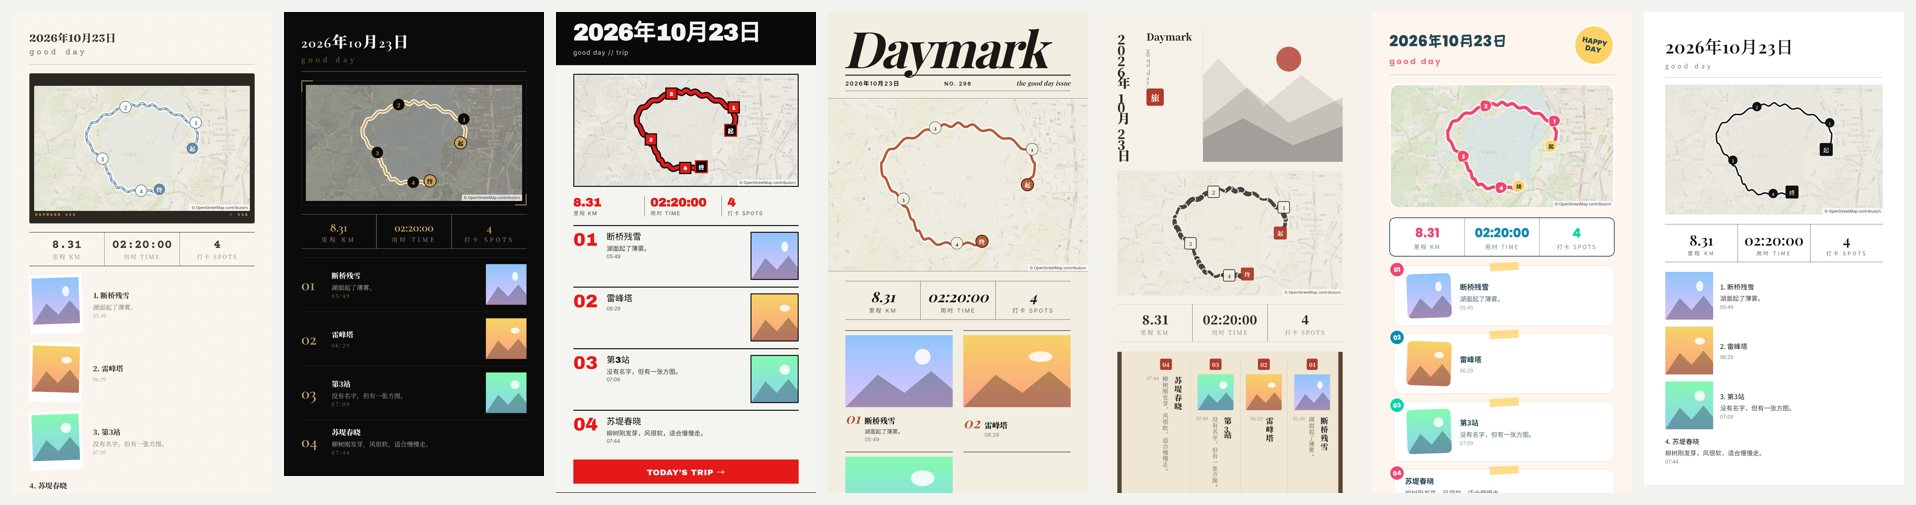
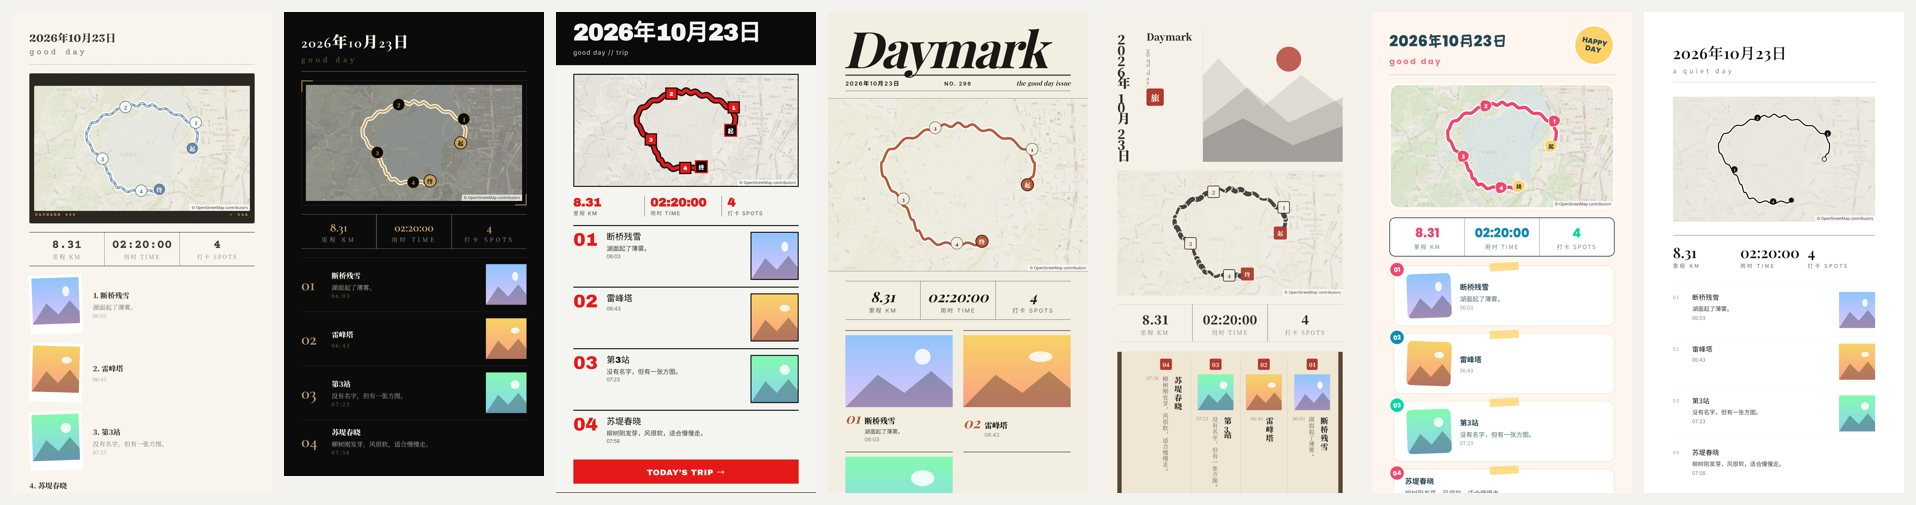
feat(themes): upgrade minimal theme; phase 2 complete
New reusable `toolbar: text` variant (label-only buttons, hairline underline
for the active state, red dot while recording). Minimal gets an airy topbar
with a text-link theme toggle, hairline hud, roomy sheets with underline
inputs and an outlined danger button. Map markers simplified: small numbered
dots for places, hollow ring for start and solid dot for end; start/end
markers now carry .is-start / .is-end on the map, export and thumbnails.
Export uses 120px margins, hairline rows and small grey indices. Muted
darkened to #767676.

README, plan and preview images updated.

Changed region(s): [[0.8622, 0.0891, 0.9854, 0.9208], [0.9546, 0.5644, 0.9854, 0.6535]]

diff --git a/index.html b/index.html
@@ -129,6 +129,8 @@ button{font-family:inherit;border:none;background:none;color:inherit;cursor:poin
 .tt[data-topbar="masthead"] .tt-top{height:26px;font-size:15px;line-height:22px;font-style:italic;border-bottom:3px double var(--on-topbar)}
 .tt[data-topbar="tag"] .tt-top{left:6px;top:6px;right:auto;width:16px;height:52px;padding:4px 0;writing-mode:vertical-rl;line-height:14px;font-size:8px;
   border:1px solid var(--line);border-radius:2px;text-align:center}
+.tt[data-toolbar="text"] .tt-bar i{width:14px;height:2px;border-radius:0;background:var(--on-topbar);opacity:.7}
+.tt[data-toolbar="text"] .tt-bar i:first-child{background:var(--on-topbar);opacity:1}
 .tt[data-topbar="float"] .tt-top{left:5px;right:5px;top:5px;border:1px solid var(--line);border-radius:min(var(--radius),6px)}
 .tt[data-toolbar="pill"] .tt-bar{left:12px;right:12px;bottom:5px;border:1px solid var(--line);border-radius:var(--pill)}
 .tt[data-toolbar="blocks"] .tt-bar{justify-content:space-evenly}
@@ -228,7 +230,13 @@ body.capturing .leaflet-control-container{display:none}
  * status:  none | strip（顶栏下常驻里程/用时/地点数）
  * topbar 另有 masthead（刊头：大标题独占一行，日期与按钮在细线下）| tag（竖排题签，悬浮在地图左上角）
  * list:    none | strip（地图下方的地点目录）
+ * toolbar 另有 text（纯文字按钮，激活态为细下划线；图标仍在 DOM 中但隐藏）
  */
+[data-toolbar="text"] #toolbar{padding:12px 10px calc(14px + env(safe-area-inset-bottom))}
+[data-toolbar="text"] .tool-btn{padding:10px 2px;border-radius:0;font-size:13px;letter-spacing:.14em}
+[data-toolbar="text"] .tool-btn .ico{display:none}
+[data-toolbar="text"] .tool-btn.active{background:none;color:inherit;text-decoration:underline;text-decoration-thickness:1px;text-underline-offset:7px}
+[data-toolbar="text"] #btnRecord.active::before{content:"";display:inline-block;width:6px;height:6px;margin-bottom:3px;border-radius:50%;background:#E5484D;animation:blink 1.2s infinite}
 [data-topbar="masthead"] #topbar{display:grid;grid-template-columns:1fr auto;grid-template-areas:"title title" "date toggle";row-gap:6px;padding-bottom:8px}
 [data-topbar="masthead"] #brand{display:contents}
 [data-topbar="masthead"] #brandTitle{grid-area:title;font-size:40px;line-height:1;padding-bottom:6px;border-bottom:var(--mast-rule,1px solid currentColor)}
@@ -590,20 +598,48 @@ body[data-theme="playful"] #pinImgPreview{border-radius:20px;border:6px solid #f
 .card-t6 .ec-pin:nth-child(3n) .ec-no{background:#06D6A0}
 .card-t6 .ec-idx{display:none}
 
-/* ---- 主题：极简主义 minimal ---- */
+/* ---- 主题：极简主义 minimal ----
+ * 高留白顶栏与纯文字工具栏，细线弹窗与下划线输入框；地图标记简化为点和环。 */
+body[data-theme="minimal"] #topbar{padding:calc(20px + env(safe-area-inset-top)) 22px 16px}
+body[data-theme="minimal"] #brandTitle{font-size:22px;font-weight:600}
+body[data-theme="minimal"] #brandDate{margin-top:6px;letter-spacing:.2em}
+body[data-theme="minimal"] #themeToggle{padding:6px 0;border:none;background:none;font-size:12px;letter-spacing:.14em;
+  text-decoration:underline;text-decoration-thickness:1px;text-underline-offset:5px}
+body[data-theme="minimal"] .tg-emoji{display:none}
+body[data-theme="minimal"] .mkb-se.is-start{background:#FFFFFF}
+body[data-theme="minimal"] .hud{box-shadow:none;border-color:#111;padding:6px 6px 6px 16px}
+body[data-theme="minimal"] .hud .rec-dot{width:6px;height:6px}
+body[data-theme="minimal"] .hud button{padding:7px 12px;font-size:12px;letter-spacing:.1em}
+body[data-theme="minimal"] .modal{padding:30px 26px calc(30px + env(safe-area-inset-bottom));border-top:1px solid #111}
+body[data-theme="minimal"] .modal h3{font-weight:600;font-size:20px;margin-bottom:26px;letter-spacing:.04em}
+body[data-theme="minimal"] .modal .row{margin-bottom:22px}
+body[data-theme="minimal"] .modal label{letter-spacing:.16em}
+body[data-theme="minimal"] .modal input[type=text],body[data-theme="minimal"] .modal textarea{border:none;border-bottom:1px solid #111;padding:8px 0;background:transparent}
+body[data-theme="minimal"] .modal input:focus,body[data-theme="minimal"] .modal textarea:focus{outline:none;border-bottom-width:2px}
+body[data-theme="minimal"] .photo-btn{border:1px solid #111;padding:9px 16px;font-size:13px}
+body[data-theme="minimal"] .btn{font-weight:500;letter-spacing:.12em;font-size:14px}
+body[data-theme="minimal"] .btn.ghost{border-color:#111}
+body[data-theme="minimal"] .btn.danger{background:#fff;color:#C4373C;border:1px solid #C4373C}
 .card-t7{--card-bg:#FFFFFF;--card-fg:#111111;font-family:"Noto Sans SC",system-ui,sans-serif}
-.card-t7 .ec-head{padding:88px 88px 30px}
-.card-t7 .ec-date{font-family:"Playfair Display","Noto Serif SC",serif;font-weight:600;font-size:72px}
+.card-t7 .ec-head{padding:120px 120px 40px}
+.card-t7 .ec-date{font-family:"Playfair Display","Noto Serif SC",serif;font-weight:600;font-size:64px}
 .card-t7 .ec-deco{font-size:26px;letter-spacing:.42em;opacity:.55}
 .card-t7 .ec-rule{height:1px;opacity:.4}
-.card-t7 .ec-map{margin:0 88px;border-radius:0;height:540px;filter:grayscale(.4)}
-.card-t7 .ec-stats{margin:40px 88px 0;border-top:1px solid #111;border-bottom:1px solid #111}
+.card-t7 .ec-map{margin:20px 120px 0;border-radius:0;height:520px}
+.card-t7 .ec-stats{margin:56px 120px 0;border-top:1px solid #111;border-bottom:none}
+.card-t7 .ec-stat{text-align:left;padding:28px 0 0}
+.card-t7 .ec-stat+.ec-stat{border-left:none}
 .card-t7 .ec-stat b{font-family:"Playfair Display","Noto Serif SC",serif;font-weight:600;font-size:60px}
 .card-t7 .ec-stat span{font-size:22px;letter-spacing:.3em}
-.card-t7 .ec-pins{margin:40px 88px 0}
-.card-t7 .ec-pin img{border-radius:0;border:1px solid #1112}
+.card-t7 .ec-pins{margin:64px 120px 0}
+.card-t7 .ec-pin{align-items:flex-start;gap:32px;padding:30px 0 0;margin-bottom:34px;border-top:1px solid #1111}
+.card-t7 .ec-no{display:block;order:0;flex:0 0 48px;padding-top:6px;font-size:20px;letter-spacing:.16em;opacity:.45}
+.card-t7 .ec-idx{display:none}
+.card-t7 .ec-pin .t{order:1}
+.card-t7 .ec-pin img{order:2;width:150px;height:150px;border-radius:0}
 .card-t7 .ec-pin .t b{font-weight:400;font-size:28px}
-.card-t7 .ec-foot{font-size:22px;letter-spacing:.4em}
+.card-t7 .ec-pin .t p{font-size:24px;line-height:1.7}
+.card-t7 .ec-foot{font-size:22px;letter-spacing:.4em;padding-bottom:110px}
 
 /* ============ 导出预览弹窗 ============ */
 .routeonly-row{display:flex;align-items:center;gap:10px;font-size:14px;color:var(--fg);margin:2px 0 12px;cursor:pointer}
@@ -836,7 +872,7 @@ const photoStore={
  * 主题 id 会写进用户存储，发布后不要改名；确需改名时在 THEME_ALIASES 里登记旧 id。
  */
 const OSM_TILE="https://tile.openstreetmap.org/{z}/{x}/{y}.png";
-const LAYOUTS={topbar:["bar","float","split","masthead","tag"],toolbar:["dock","pill","blocks","bubbles"],modal:["sheet","dialog"],status:["none","strip"],list:["none","strip"]};
+const LAYOUTS={topbar:["bar","float","split","masthead","tag"],toolbar:["dock","pill","blocks","bubbles","text"],modal:["sheet","dialog"],status:["none","strip"],list:["none","strip"]};
 const THEME_ALIASES={};
 const THEME_DEFAULTS={
   name:"",category:"其他",desc:"",
@@ -924,15 +960,17 @@ const THEMES=[
       pin:{radius:"40% 60% 70% 30%/40% 50% 60% 50%",bg:"#EF476F",fg:"#FFFFFF",border:"2.5px solid #FFFFFF",shadow:"0 3px 10px rgba(239,71,111,.4)"},
       se:{radius:"40% 60% 70% 30%/40% 50% 60% 50%",bg:"#FFD166",fg:"#264653",border:"2.5px solid #FFFFFF"}}},
   card:{cls:"card-t6",tape:true},motion:{dur:".35s",ease:"cubic-bezier(.34,1.56,.64,1)"}},
- {id:"minimal",name:"极简主义",category:"设计",desc:"大留白与细线",
-  palette:{bg:"#FFFFFF",fg:"#111111",muted:"#8A8A8A",accent:"#111111",panel:"#FFFFFF",line:"rgba(0,0,0,.14)"},
-  typography:{display:'"Playfair Display","Noto Serif SC",serif',body:'"Noto Sans SC",system-ui,sans-serif',num:'"Playfair Display",serif'},
-  shape:{radius:"0px",control:"0px",pill:"0px"},
-  map:{tileOpacity:.22,tileFilter:"grayscale(1) brightness(1.2)",
-    route:{color:"#111111",casing:"#FFFFFF",weight:4,casingW:9},
-    marker:{pin:{size:"26px",fontSize:"12px",weight:"400",bg:"#111111",fg:"#FFFFFF",border:"none"},
-      se:{radius:"4px",weight:"400",bg:"#111111",fg:"#FFFFFF"}}},
-  card:{cls:"card-t7"},motion:{dur:".2s"}}
+ {id:"minimal",name:"极简主义",category:"设计",desc:"高留白、细线与纯文字按钮",
+  palette:{bg:"#FFFFFF",fg:"#111111",muted:"#767676",accent:"#111111",panel:"#FFFFFF",line:"rgba(0,0,0,.12)"},
+  typography:{display:'"Playfair Display","Noto Serif SC",serif',body:'"Noto Sans SC",system-ui,sans-serif',num:'"Playfair Display",serif',titleSpacing:".04em"},
+  shape:{radius:"0px",control:"0px",pill:"0px",topbarBorder:"1px solid rgba(0,0,0,.12)"},
+  layout:{toolbar:"text"},
+  map:{tileOpacity:.18,tileFilter:"grayscale(1) brightness(1.22)",
+    route:{color:"#111111",casing:"#FFFFFF",weight:3,casingW:8},
+    /* 简化标记：地点为小黑点编号；起点空心环、终点实心点，不显示文字 */
+    marker:{pin:{size:"18px",fontSize:"10px",weight:"500",bg:"#111111",fg:"#FFFFFF",border:"none"},
+      se:{size:"14px",fontSize:"0px",weight:"400",bg:"#111111",fg:"#FFFFFF",border:"2px solid #111111"}}},
+  card:{cls:"card-t7",deco:"a quiet day"},motion:{dur:".2s"}}
 ].map(defineTheme);
 const themeById=id=>THEMES.find(t=>t.id===(THEME_ALIASES[id]||id))||THEMES[0];
 /* 主题 → CSS 变量。界面（:root）与画廊缩略图（.tt 元素）共用 */
@@ -1090,9 +1128,9 @@ function buildGallery(){
     tt.className="tt";tt.dataset.topbar=t.layout.topbar;tt.dataset.toolbar=t.layout.toolbar;tt.dataset.status=t.layout.status;tt.dataset.list=t.layout.list;
     setVars(tt,themeVars(t));
     tt.innerHTML=thumbRouteSVG(t)
-      +'<span class="tt-mk" style="left:10px;top:92px"><div class="mkb-se">起</div></span>'
+      +'<span class="tt-mk" style="left:10px;top:92px"><div class="mkb-se is-start">起</div></span>'
       +'<span class="tt-mk" style="left:56px;top:66px"><div class="mkb-pin">1</div></span>'
-      +'<span class="tt-mk" style="left:94px;top:46px"><div class="mkb-se">终</div></span>'
+      +'<span class="tt-mk" style="left:94px;top:46px"><div class="mkb-se is-end">终</div></span>'
       +'<div class="tt-top">Daymark</div><div class="tt-strip"></div><div class="tt-list"></div><div class="tt-bar"><i></i><i></i><i></i><i></i></div>';
     b.appendChild(tt);
     b.insertAdjacentHTML("beforeend",'<span class="tg-badge">当前</span><span class="tg-name">'+esc(t.name)+'</span><span class="tg-meta">'+esc(t.category+" · "+t.desc)+'</span>');
@@ -1148,10 +1186,10 @@ function drawRoute(){
     }
   }
   /* 起终点标记 */
-  const mk=(p,txt)=>{
-    L.marker([p.lat,p.lng],{icon:L.divIcon({className:"mk-se",html:'<div class="mkb-se">'+txt+"</div>",iconSize:[36,36],iconAnchor:[18,18]}),interactive:false,keyboard:false}).addTo(seLayer);
+  const mk=(p,txt,kind)=>{
+    L.marker([p.lat,p.lng],{icon:L.divIcon({className:"mk-se",html:'<div class="mkb-se '+kind+'">'+txt+"</div>",iconSize:[36,36],iconAnchor:[18,18]}),interactive:false,keyboard:false}).addTo(seLayer);
   };
-  mk(pts[0],"起");mk(pts[pts.length-1],"终");
+  mk(pts[0],"起","is-start");mk(pts[pts.length-1],"终","is-end");
   updateRecHud();
 }
 function pushRoutePoint(lat,lng,t){
@@ -1481,7 +1519,7 @@ async function renderMapImage(th){
   g.fillStyle="rgba(255,255,255,.72)";g.fillRect(W-tw-16,H-26,tw+16,26);
   g.fillStyle="#333";g.textBaseline="middle";g.fillText(credit,W-tw-8,H-13);
   const marks=[],mark=(p,cls,txt)=>{const q=P(p);marks.push({x:q[0]/W*100,y:q[1]/H*100,cls,txt});};
-  if(state.route.length>=2){mark(state.route[0],"mkb-se","起");mark(state.route[state.route.length-1],"mkb-se","终");}
+  if(state.route.length>=2){mark(state.route[0],"mkb-se is-start","起");mark(state.route[state.route.length-1],"mkb-se is-end","终");}
   sortedPins().forEach((p,i)=>mark(p,"mkb-pin",String(i+1)));
   return {src:cv.toDataURL("image/png"),marks};   // 瓦片跨域被拒时这里会抛错，由调用方兜底
 }

diff --git a/DEVELOPMENT_PLAN.md b/DEVELOPMENT_PLAN.md
@@ -71,6 +71,7 @@
 - [x] 第二阶段第一批：奶油胶片、瑞士粗野主义（见下）。
 - [x] 第二阶段第二批：黑金轻奢、插画趣味风（见下）。
 - [x] 第二阶段第三批：星期日杂志、新中式水墨（见下）。
+- [x] 第二阶段第四批：极简主义（见下）。**第二阶段完成。**
 - [x] README 重写：功能、使用须知、主题目录与预览图、验收模式与截图脚本、新增主题指南、第三方许可清单（第四阶段的 README 条目提前完成，后续随主题更新）。
 
 ### 第二阶段进度
@@ -86,7 +87,9 @@
 | 星期日杂志 | `masthead`（新增） + `dock` + `sheet` + `list: strip`（新增） | 刊头式顶栏：斜体 40px 大标题与 THE DAY ISSUE 小字，细线下为日期与文字链接式按钮；横排图标 + 标签的工具栏；斜体编号的编辑式地点目录。导出为杂志封面：210px 斜体刊头、日期 / 期号（一年中的第几天）/ 装饰语一行、满版地图、双栏图文目录。 |
 | 新中式水墨 | `tag`（新增） + `dock` + `sheet` + `list: strip` | 竖排题签“日迹”悬于地图左上，朱印“换风格”；工具栏图标为朱印框；地点目录做成手卷：两端木轴、竖排、由右向左。导出地点同样按手卷排列（竖排标题与记录、朱印编号）。 |
 
-验收：第一批两款 × 12 个场景 × phone / narrow / wide 截图，7 款主题导出 PNG 全部走新地图渲染；全量回归 252 张截图无报错。第二批、第三批同样 × 12 个场景 × 三种视口。第三批修复：html2canvas 绘制竖排文字时标点位置错误、时间被拆开，新增 `card.vertical` 自动换用竖排标点，时间单独横排；主题画廊增加“完成”按钮（竖排题签被画廊遮住时也能关闭）。修复：html2canvas 会把圆角卡片的 box-shadow 画成灰色实块，插画导出卡改用浅色边框。新增通用能力：`topbar: split | masthead | tag`、`toolbar: bubbles`、`status: strip`、`list: strip` 变体、导出卡片 `.ec-map-in` 内层（主题可自由给地图加外框）、`card.mapLabel`、地点编号元素 `.ec-no`、验收场景 `pinphoto`。
+| 极简主义 | `bar` + `text`（新增） + `sheet` | 高留白顶栏、文字链接式“换风格”；纯文字工具栏，激活态为细下划线，记录中带红点；细线录制条；弹窗加大留白、下划线输入框、描边危险按钮。地图标记简化：地点为 18px 编号小黑点，起点空心环、终点实心点（起终点标记新增 `.is-start` / `.is-end`）。导出：120px 边距、细线分行、灰色小编号。muted 改为 `#767676`。 |
+
+验收：第一批两款 × 12 个场景 × phone / narrow / wide 截图，7 款主题导出 PNG 全部走新地图渲染；全量回归 252 张截图无报错。第二批、第三批、第四批同样 × 12 个场景 × 三种视口。第三批修复：html2canvas 绘制竖排文字时标点位置错误、时间被拆开，新增 `card.vertical` 自动换用竖排标点，时间单独横排；主题画廊增加“完成”按钮（竖排题签被画廊遮住时也能关闭）。修复：html2canvas 会把圆角卡片的 box-shadow 画成灰色实块，插画导出卡改用浅色边框。新增通用能力：`topbar: split | masthead | tag`、`toolbar: bubbles | text`、`status: strip`、`list: strip` 变体、导出卡片 `.ec-map-in` 内层（主题可自由给地图加外框）、`card.mapLabel`、地点编号元素 `.ec-no`、验收场景 `pinphoto`。
 
 ### 已知问题（待处理）
 
@@ -95,4 +98,4 @@
 
 ### 下一步
 
-1. 第二阶段收尾：极简主义（高留白、细线控件、简化地图标记）。之后进入第三阶段新增主题，每批最多两款。
+1. 第三阶段第一批：岛屿手账（便签与物件式工具栏、旅行日记导出）与旷野探索（地图主导、探索面板与任务日志）。两款可分别复用 `float` + `pill` 与 `status: strip` + `list: strip`，按需新增变体。

diff --git a/README.md b/README.md
@@ -33,7 +33,7 @@
 | 星期日杂志海报 | `magazine` | 设计 | masthead / dock / sheet / – / strip | 刊头式斜体大标题、编辑式地点目录、导出为杂志封面（满版地图 + 期号 + 双栏目录） |
 | 新中式水墨 | `ink` | 东方 | tag / dock / sheet / – / strip | 竖排题签“日迹”、朱印按钮、手卷式地点目录（竖排、由右向左）、飞白墨线 |
 | 插画趣味风 | `playful` | 趣味 | float / bubbles / dialog / – / – | 悬浮圆角顶栏、漂浮圆钮、彩色贴纸、胶带卡片 |
-| 极简主义 | `minimal` | 设计 | bar / dock / sheet / – / – | 大留白与细线（待升级） |
+| 极简主义 | `minimal` | 设计 | bar / text / sheet / – / – | 高留白、纯文字工具栏、下划线输入框；地图标记简化为编号小点、空心起点环与实心终点 |
 
 后续计划新增岛屿手账、旷野探索、冒险图鉴、星糖日记、像素闯关、猎人档案、幻想旅程、怪盗拼贴等方向，进度见 [DEVELOPMENT_PLAN.md](DEVELOPMENT_PLAN.md)。这些方向借鉴游戏作品的气质，但界面、图形和文案都是原创的。
 
@@ -125,14 +125,14 @@ node qa-shots.mjs --themes ink,playful --scenes full,export --viewports phone,la
    | 维度 | 可选值 |
    | --- | --- |
    | `topbar` | `bar` 整条 · `float` 悬浮卡片 · `split` 标题 / 日期 / 按钮分格 · `masthead` 刊头（大标题独占一行）· `tag` 竖排题签（悬浮在地图左上角） |
-   | `toolbar` | `dock` 底部整条 · `pill` 悬浮胶囊 · `blocks` 硬边方块 · `bubbles` 独立漂浮圆钮 |
+   | `toolbar` | `dock` 底部整条 · `pill` 悬浮胶囊 · `blocks` 硬边方块 · `bubbles` 独立漂浮圆钮 · `text` 纯文字按钮 |
    | `modal` | `sheet` 底部弹出 · `dialog` 居中卡片（宽屏一律居中） |
    | `status` | `none` · `strip` 顶栏下常驻里程 / 用时 / 地点数 |
    | `list` | `none` · `strip` 地图下方的地点目录，点条目定位到该地点 |
 
    如果现有变体都不合适，就在 CSS「布局变体」区块和 `LAYOUTS` 里新增一个，这样后续主题也能复用。
 
-3. **写专属样式**：配置表达不了的细节（齿孔、贴纸、编号等），写在 CSS「主题区块」里，用 `body[data-theme="你的id"]` 开头；导出卡片样式写成 `.card-xxx` 规则。
+3. **写专属样式**：配置表达不了的细节（齿孔、贴纸、编号等），写在 CSS「主题区块」里，用 `body[data-theme="你的id"]` 开头；导出卡片样式写成 `.card-xxx` 规则。起点 / 终点标记分别带 `.is-start` / `.is-end`，导出卡片里地点编号 `.ec-no` 默认隐藏，可按需显示。
 
 4. **验收**：运行 `node tools/qa-shots.mjs --themes 你的id`，逐项检查页面布局、路线与标记、所有弹窗、记录状态和导出 PNG，并确认主题检查没有 error。
 
